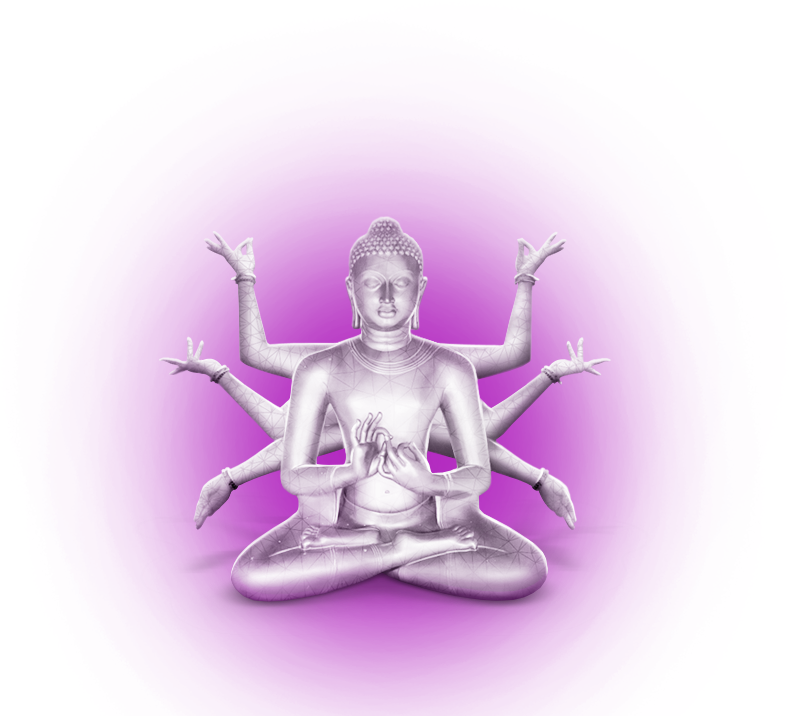
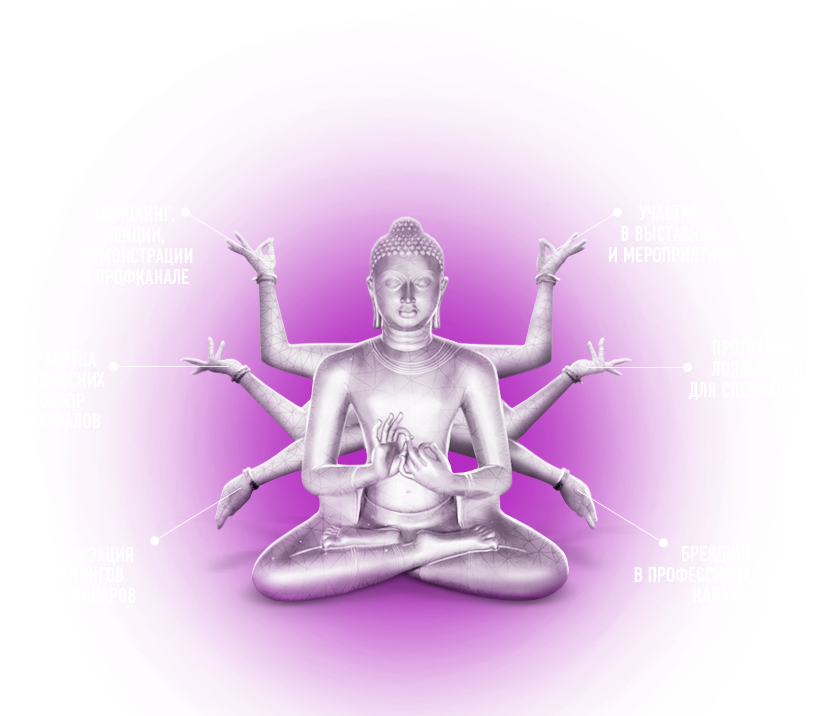
buddan png style

diff --git a/index.html b/index.html
@@ -114,7 +114,7 @@
                         <div class="content">
                             <h1>Профессиональный маркетинг</h1>
                             <img src="img/budda.png" class="buda" alt=""/>
-                            <img src="img/p-line-l1.png" class="p-line l-1">
+                            <!--<img src="img/p-line-l1.png" class="p-line l-1">
                             <img src="img/p-line-l2.png" class="p-line l-2">
                             <img src="img/p-line-l3.png" class="p-line l-3">
                             <img src="img/p-line-r1.png" class="p-line r-1">
@@ -153,7 +153,7 @@
                                 Брендинг <br >
                                 в профессиональном <br >
                                 канале <br >
-                            </p>
+                            </p>-->
                         </div>
                     </div>
                     <a  class="button" data-slide="services" data-direction="left" data-orientation="horizontal" title=""></a>
